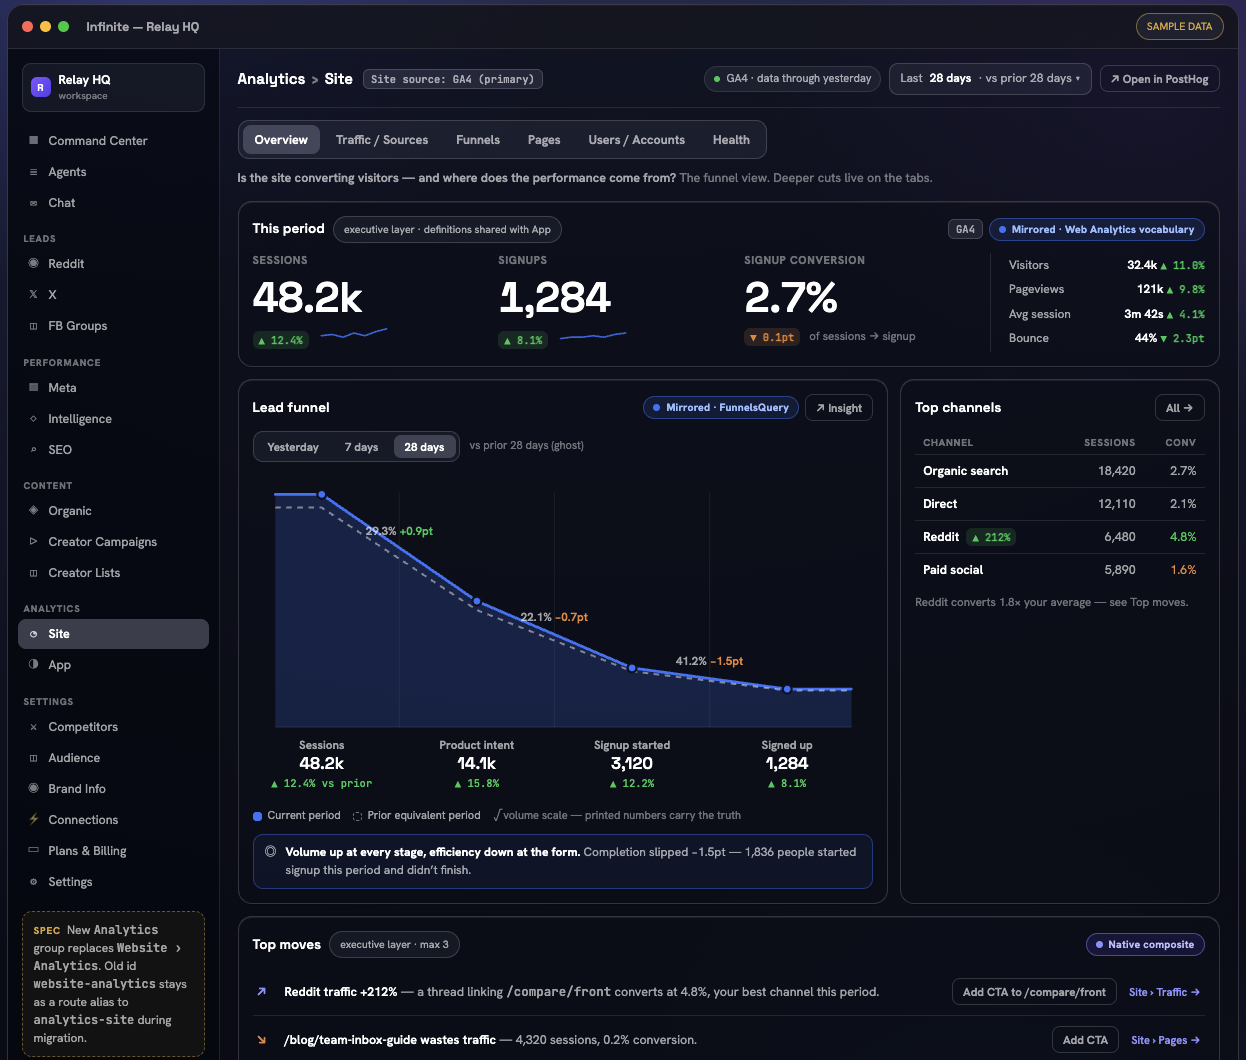
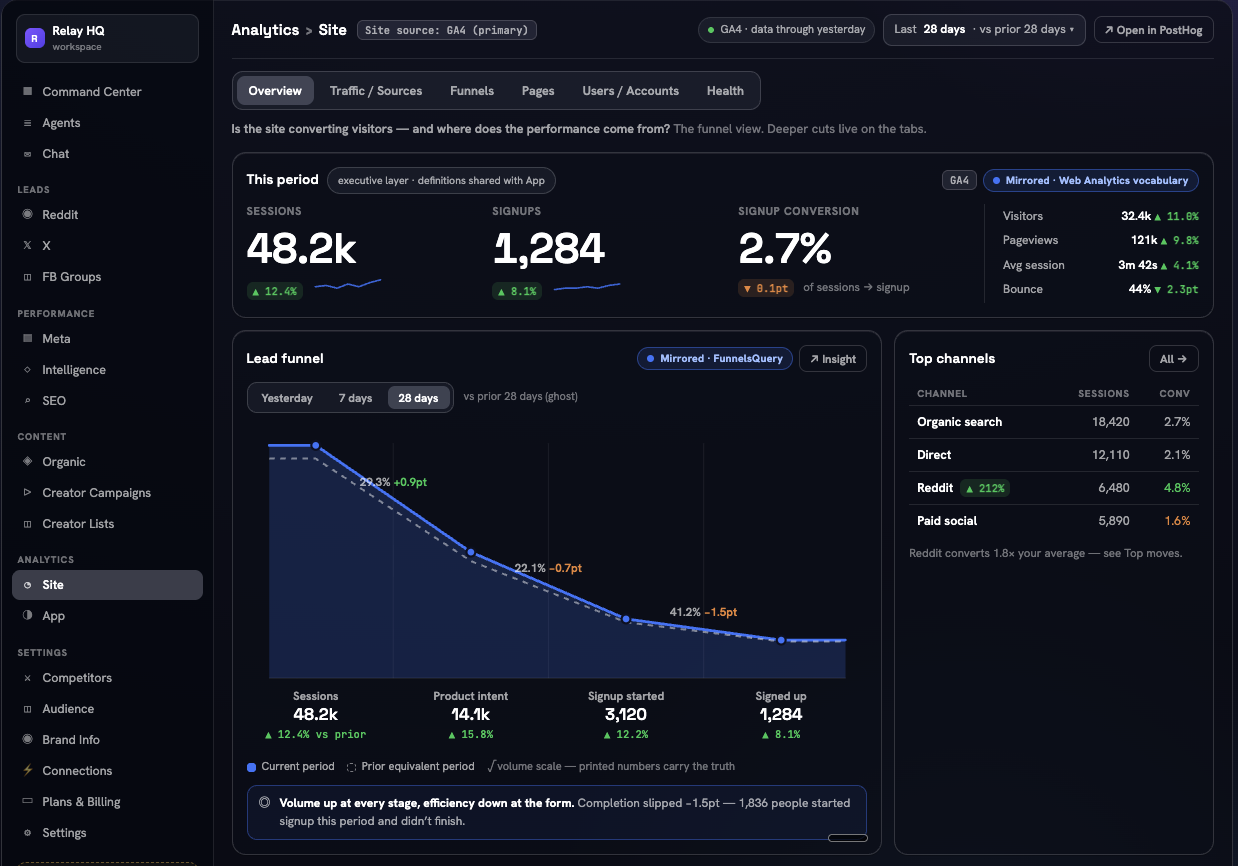
Refresh hero dashboard crop

Changed region(s): [[0.0, 0.0, 1.0, 0.9977], [0.7674, 0.9353, 0.9822, 0.9977], [0.8595, 0.873, 0.9822, 0.9042]]

diff --git a/_agent_artifacts/infinite-option-4-desktop-tokens/index-scheme-wrangle.html b/_agent_artifacts/infinite-option-4-desktop-tokens/index-scheme-wrangle.html
@@ -3370,7 +3370,7 @@
   <link rel="stylesheet" href="light-common.css">
   <link rel="stylesheet" href="light-sky.css">
   <link rel="stylesheet" href="light-sky-polish.css?v=final-polish2">
-  <link rel="stylesheet" href="scheme-variants.css?v=dashboard-shot1">
+  <link rel="stylesheet" href="scheme-variants.css?v=dashboard-shot2">
 </head>
 <body>
   <header class="site-header">